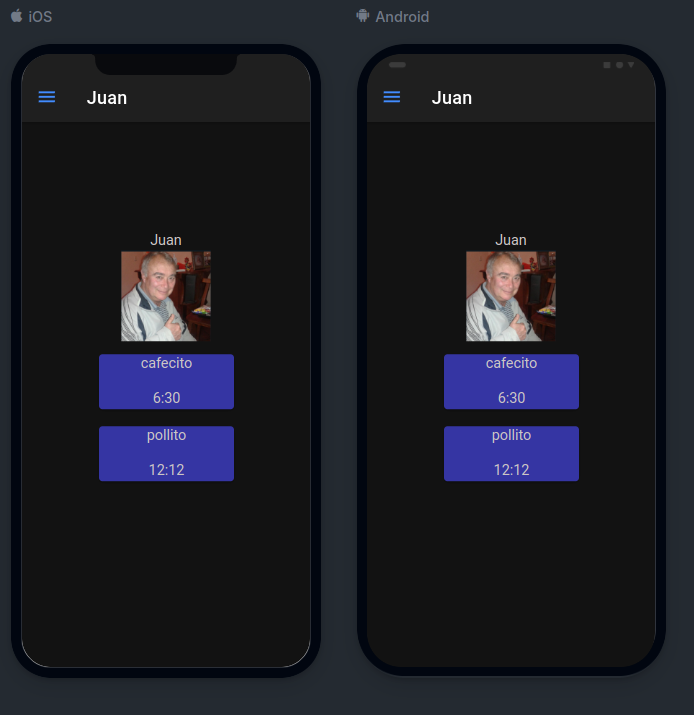
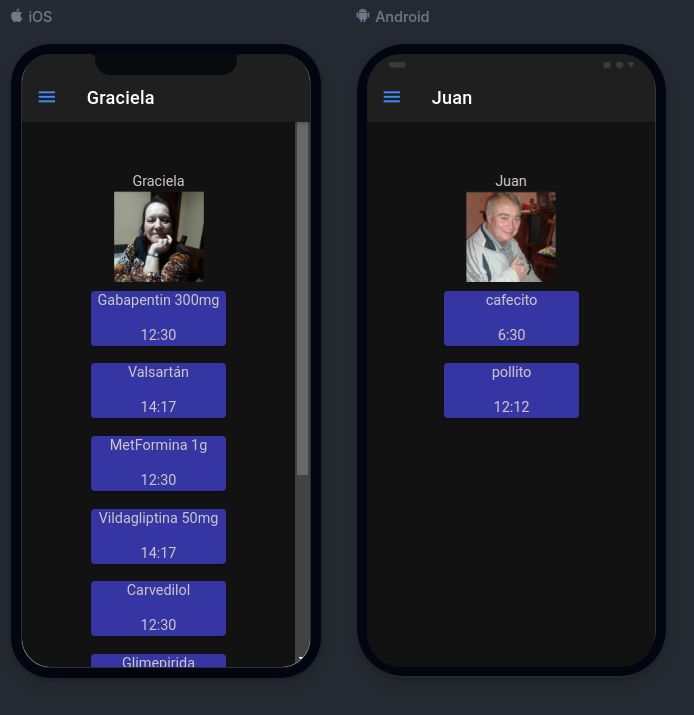
Fix: better layout of medicines.

diff --git a/src/app/folder/folder.page.ts b/src/app/folder/folder.page.ts
@@ -7,11 +7,12 @@ import { Medicine } from '../model/medicine';
   templateUrl: './folder.page.html',
   styleUrls: ['./folder.page.scss'],
 })
+
 export class FolderPage implements OnInit {
   public folder!: string;
   public localMedicine:Medicine=new Medicine();
   public localMedicine2:Medicine=new Medicine();
-  
+
   public medicineGraciela: Array<Medicine>= new Array<Medicine>;
   public medicineJuan: Array<Medicine>= new Array<Medicine>;
 
@@ -24,54 +25,54 @@ export class FolderPage implements OnInit {
     this.localMedicine.Name="Gabapentin 300mg";
     this.result =  this.medicineGraciela.push(this.localMedicine);
     console.log("Gra:"+JSON.stringify(this.medicineGraciela));
-    
-    
+
+
     this.localMedicine2.Data="14:17";
     this.localMedicine2.Name="Valsartán";
     this.result2 =  this.medicineGraciela.push(this.localMedicine2);
     console.log("Gra:"+JSON.stringify(this.medicineGraciela));
-    
-    
+
+
     let localMedicine3:Medicine=new Medicine();
     localMedicine3.Data="12:30";
     localMedicine3.Name="MetFormina 1g";
-    this.result =  this.medicineGraciela.push(localMedicine3);    
+    this.result =  this.medicineGraciela.push(localMedicine3);
 
-    let localMedicine4:Medicine=new Medicine();    
+    let localMedicine4:Medicine=new Medicine();
     localMedicine4.Data="14:17";
     localMedicine4.Name="Vildagliptina 50mg";
     this.result2 = this.medicineGraciela.push(localMedicine4);
     console.log("Gra:"+JSON.stringify(this.medicineGraciela));
 
-    let localMedicine5:Medicine=new Medicine();        
+    let localMedicine5:Medicine=new Medicine();
     localMedicine5.Data="12:30";
     localMedicine5.Name="Carvedilol";
-    this.result =  this.medicineGraciela.push(localMedicine5);    
+    this.result =  this.medicineGraciela.push(localMedicine5);
 
     console.log("Gra:"+JSON.stringify(this.medicineGraciela));
-    let localMedicine6:Medicine=new Medicine();        
+    let localMedicine6:Medicine=new Medicine();
     localMedicine6.Data="14:17";
     localMedicine6.Name="Glimepirida";
     this.result2 =  this.medicineGraciela.push(localMedicine6);
-    
+
     console.log("Gra:"+JSON.stringify(this.medicineGraciela));
 
-    let localMedicine7:Medicine=new Medicine();        
+    let localMedicine7:Medicine=new Medicine();
     localMedicine7.Data="12:30";
     localMedicine7.Name="Rosuvastatina";
-    this.result =  this.medicineGraciela.push(localMedicine7);    
+    this.result =  this.medicineGraciela.push(localMedicine7);
 
     console.log("Gra:"+JSON.stringify(this.medicineGraciela));
-    let localMedicine8:Medicine=new Medicine();        
+    let localMedicine8:Medicine=new Medicine();
     localMedicine8.Data="14:17";
     localMedicine8.Name="AMLODIPINA 10mg";
     this.result2 =  this.medicineGraciela.push(localMedicine8);
     console.log("Gra:"+JSON.stringify(this.medicineGraciela));
-    
-    let localMedicine9:Medicine=new Medicine();        
+
+    let localMedicine9:Medicine=new Medicine();
     localMedicine9.Data="12:30";
     localMedicine9.Name="Pelmec 10";
-    this.result = this.medicineGraciela.push(localMedicine9);    
+    this.result = this.medicineGraciela.push(localMedicine9);
     console.log("Gra:"+JSON.stringify(this.medicineGraciela));
   }
 
@@ -79,7 +80,7 @@ export class FolderPage implements OnInit {
 
   async ngOnInit() {
     this.folder = this.activatedRoute.snapshot.paramMap.get('id') as string;
-    
+
     //adding gra medicine
     if(this.folder==='Graciela'){
       console.log("Gra:"+JSON.stringify(this.medicineGraciela));
@@ -93,16 +94,9 @@ export class FolderPage implements OnInit {
     this.localMedicine2.Data="12:12";
     this.localMedicine2.Name="pollito";
     this.medicineJuan.push(this.localMedicine2);
-    
+
     console.log("Juan:"+JSON.stringify(this.medicineJuan))
     }
-  }
-
-  async onClick1(){
-    console.log("click 1");
-  }
-  async onClick2(){
-    console.log("click 2");
   }
 
 }

diff --git a/src/app/folder/folder.page.html b/src/app/folder/folder.page.html
@@ -7,7 +7,7 @@
   </ion-toolbar>
 </ion-header>
 
-<ion-content [fullscreen]="true"  style="background-color: blueviolet !important;">
+<ion-content [fullscreen]="true" class="bkgC">
   <ion-header collapse="condense">
     <ion-toolbar>
       <ion-title size="large">{{ folder }}</ion-title>
@@ -18,21 +18,21 @@
     <div id="principal-cont" *ngIf="folder==='Principal'">
 
       <div>
-        <ion-button id="button1" (click)="onClick1()" href="/folder/Graciela" 	 color="success"  shape="round" >
-          <img src="../../assets/Gra.png" alt="Gra picture" width="100%">
+        <ion-button id="button1" href="/folder/Graciela" 	 color="success"  shape="round" >
+          <img src="../../assets/Gra.png" alt="Gra picture" class="imgsF">
         </ion-button>
-        <ion-button id="button2" (click)="onClick2()" href="/folder/Juan"  color="success"  shape="round" >
-          <img src="../../assets/Juan.png" alt="Juan picture" width="100%">
+        <ion-button id="button2" href="/folder/Juan"  color="success"  shape="round" >
+          <img src="../../assets/Juan.png" alt="Juan picture" class="imgsF">
         </ion-button>
       </div>
 
     </div>
 
-    <div id="graciela-cont" *ngIf="folder==='Graciela'">
+    <div id="graciela-cont" *ngIf="folder==='Graciela'" class="personContent">
       <p>Graciela</p>
-      <img src="../../assets/Gra.png" alt="Gra picture" width="100px">
+      <img src="../../assets/Gra.png" alt="Gra picture" class="imgs">
       <div class="cardsFolder">
-        <div  *ngFor="let medicine2 of medicineGraciela;let i = index;">
+        <div *ngFor="let medicine2 of medicineGraciela;let i = index;">
           <ion-card class="cardType">
             <p class="myP">{{medicineGraciela[i].Name}}</p>
             <br>
@@ -43,9 +43,9 @@
     </div>
 
 
-    <div id="juan-cont" *ngIf="folder==='Juan'">
+    <div id="juan-cont" *ngIf="folder==='Juan'"  class="personContent">
       <p>Juan</p>
-      <img src="../../assets/Juan.png" alt="Juan picture" width="100px">
+      <img src="../../assets/Juan.png" alt="Juan picture" class="imgs">
       <div class="cardsFolder">
         <div *ngFor="let medicine of medicineJuan; let i= index;">
             <ion-card class="cardType">
@@ -56,12 +56,6 @@
         </div>
       </div>
     </div>
-
-
-
-
-
-
 
   </div>
 </ion-content>

diff --git a/src/app/app.component.html b/src/app/app.component.html
@@ -7,22 +7,12 @@
           <ion-note>Para acordarse de los remedios</ion-note>
 
           <ion-menu-toggle auto-hide="false" *ngFor="let p of appPages; let i = index">
-            <ion-item routerDirection="root" [routerLink]="[p.url]" lines="none" detail="false" routerLinkActive="selected">
+            <ion-item routerdirection="root" [routerLink]="[p.url]" lines="none" detail="false" routerlinkactive="selected">
               <ion-icon aria-hidden="true" slot="start" [ios]="p.icon + '-outline'" [md]="p.icon + '-sharp'"></ion-icon>
               <ion-label>{{ p.title }}</ion-label>
             </ion-item>
           </ion-menu-toggle>
         </ion-list>
-      <!--
-        <ion-list id="labels-list">
-          <ion-list-header>Labels</ion-list-header>
-
-          <ion-item *ngFor="let label of labels" lines="none">
-            <ion-icon aria-hidden="true" slot="start" ios="bookmark-outline" md="bookmark-sharp"></ion-icon>
-            <ion-label>{{ label }}</ion-label>
-          </ion-item>
-        </ion-list>
-        -->  
       </ion-content>
     </ion-menu>
     <ion-router-outlet id="main-content"></ion-router-outlet>

diff --git a/src/app/folder/folder.page.scss b/src/app/folder/folder.page.scss
@@ -45,6 +45,7 @@ ion-menu-button {
   flex-direction: row;
   justify-content: space-around;
   flex-wrap: wrap;
+  overflow: auto;
 }
 .cardType{
   background-color: rgb(53, 53, 163);
@@ -53,4 +54,26 @@ ion-menu-button {
 }
 .myP{
   font-size:medium;
+}
+.imgs{
+  display: flex;
+  flex-direction: column;
+  justify-content: center;
+  width:100px;
+}
+.imgsF {
+  width: 100%;
+}
+
+.bkgC{
+  background-color: blueviolet !important;
+}
+.personContent{
+  position:absolute;
+  margin-top: -210px;
+  display: flex;
+  flex-direction: column;
+  justify-content: center;
+  align-items: center;
+
 }
